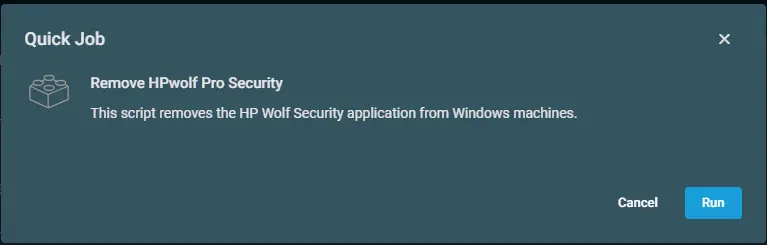
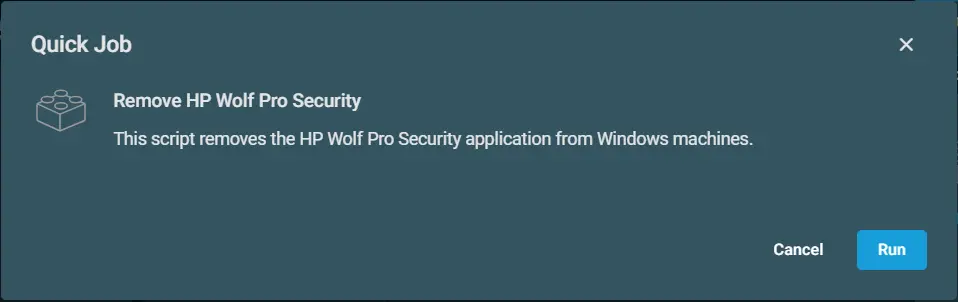
QA - Update
Name update

diff --git a/docs/dattormm/components/remove-hpwolf-pro-security.md b/docs/dattormm/components/remove-hpwolf-pro-security.md
@@ -1,22 +1,22 @@
 ---
 id: '5841a1ff-43c7-492b-a913-51d299424169'
 slug: /5841a1ff-43c7-492b-a913-51d299424169
-title: 'Remove HPwolf Pro Security'
-title_meta: 'FilenameRemove HPwolf Pro Security'
+title: 'Remove HP Wolf Pro Security'
+title_meta: 'Remove HP Wolf Pro Security'
 keywords: ['hpwolf', 'uninstall', 'script', 'Security', 'software']
-description: 'This script removes the HP Wolf Security application from Windows machines.'
+description: 'This script removes the HP Wolf Pro Security application from Windows machines.'
 tags: ['application', 'software', 'uninstallation', 'windows']
-draft: False
+draft: false
 unlisted: false
 ---
 
 ## Overview
-This script removes the HP Wolf Security application from Windows machines.
+This script removes the HP Wolf Pro Security application from Windows machines.
 
 
 ## Implementation  
 
-1. Download the component [Remove HPwolf Pro Security](../../../static/attachments/Remove%20HPwolf%20Pro%20Security.cpt) from the attachments.
+1. Download the component [Remove HP Wolf Pro Security](../../../static/attachments/remove-hp-wolf-pro-security.cpt) from the attachments.
 
 2. After downloading the attached file, click on the `Import` button
 
@@ -32,7 +32,7 @@ To execute the `component` over a specific machine, follow these steps:
 2. Click on the `Quick Job` button.  
 ![Image 2](../../../static/img/docs/cad55427-9b06-47c0-b675-6b2fb974c1c4/template2.webp)  
 
-3. Search the component `Remove HPwolf Pro Security` and click on `Select`
+3. Search the component `Remove HP Wolf Pro Security` and click on `Select`
  ![Image 3](../../../static/img/docs/cad55427-9b06-47c0-b675-6b2fb974c1c4/template3.webp)
 
 4. Click `Run` to initiate the component
@@ -44,4 +44,4 @@ To execute the `component` over a specific machine, follow these steps:
 - stdError  
 
 ## Attachments
-[Remove HPwolf Pro Security](../../../static/attachments/Remove%20HPwolf%20Pro%20Security.cpt)
+[Remove HP Wolf Pro Security](../../../static/attachments/remove-hp-wolf-pro-security.cpt)
